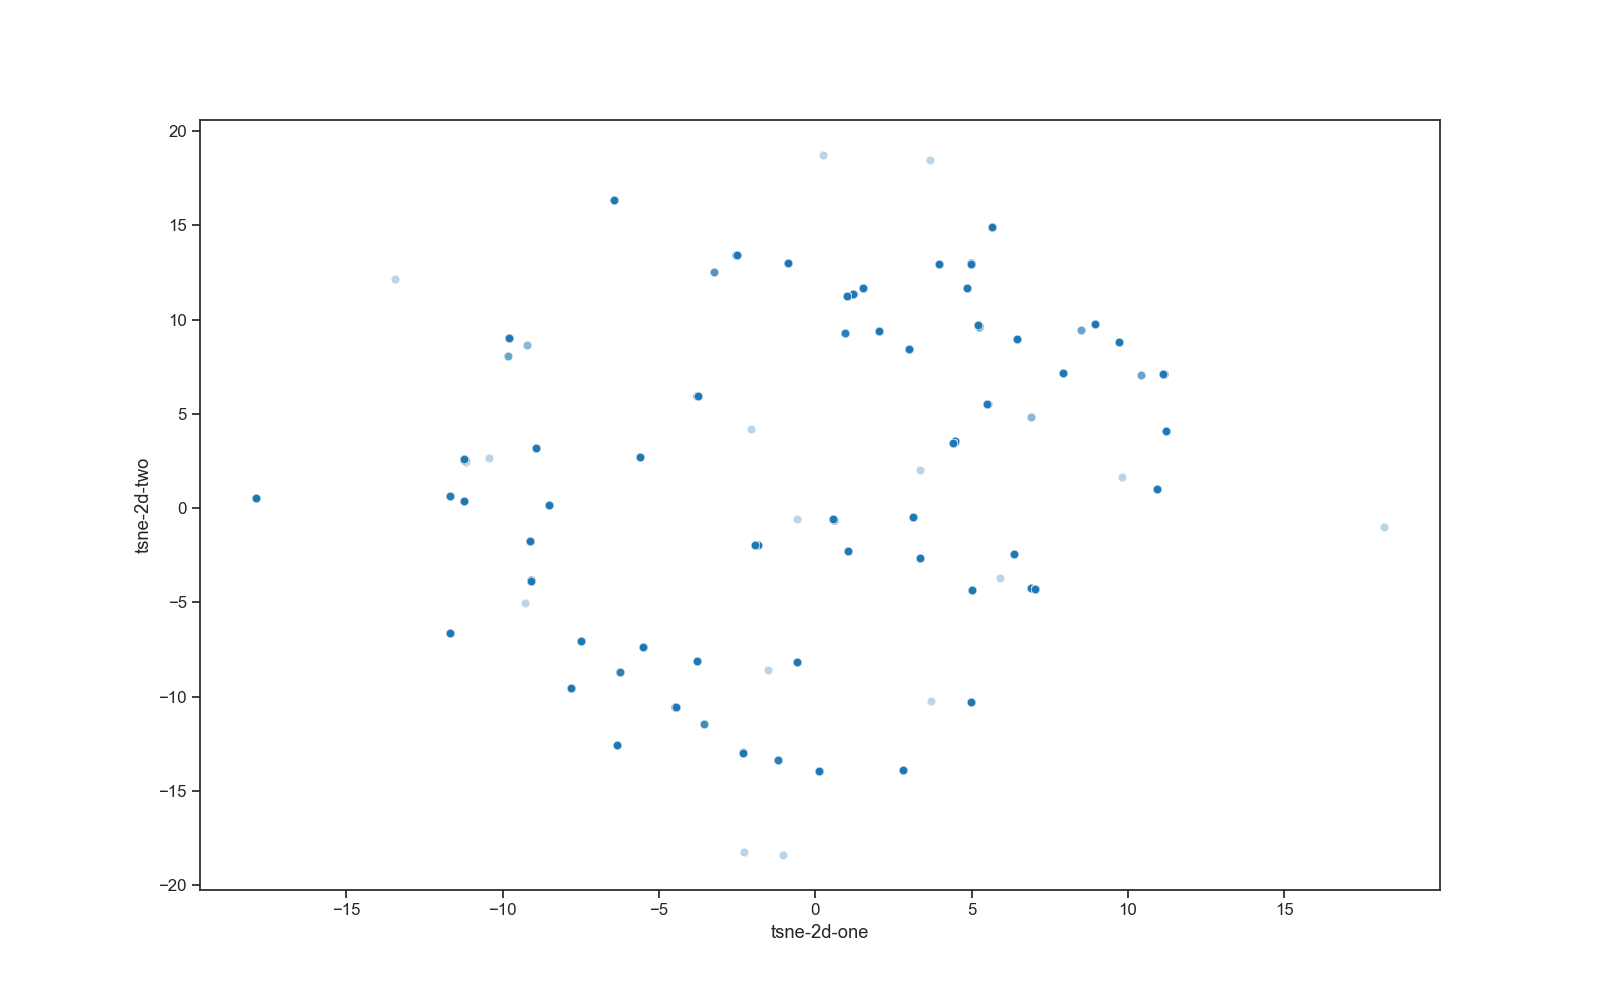
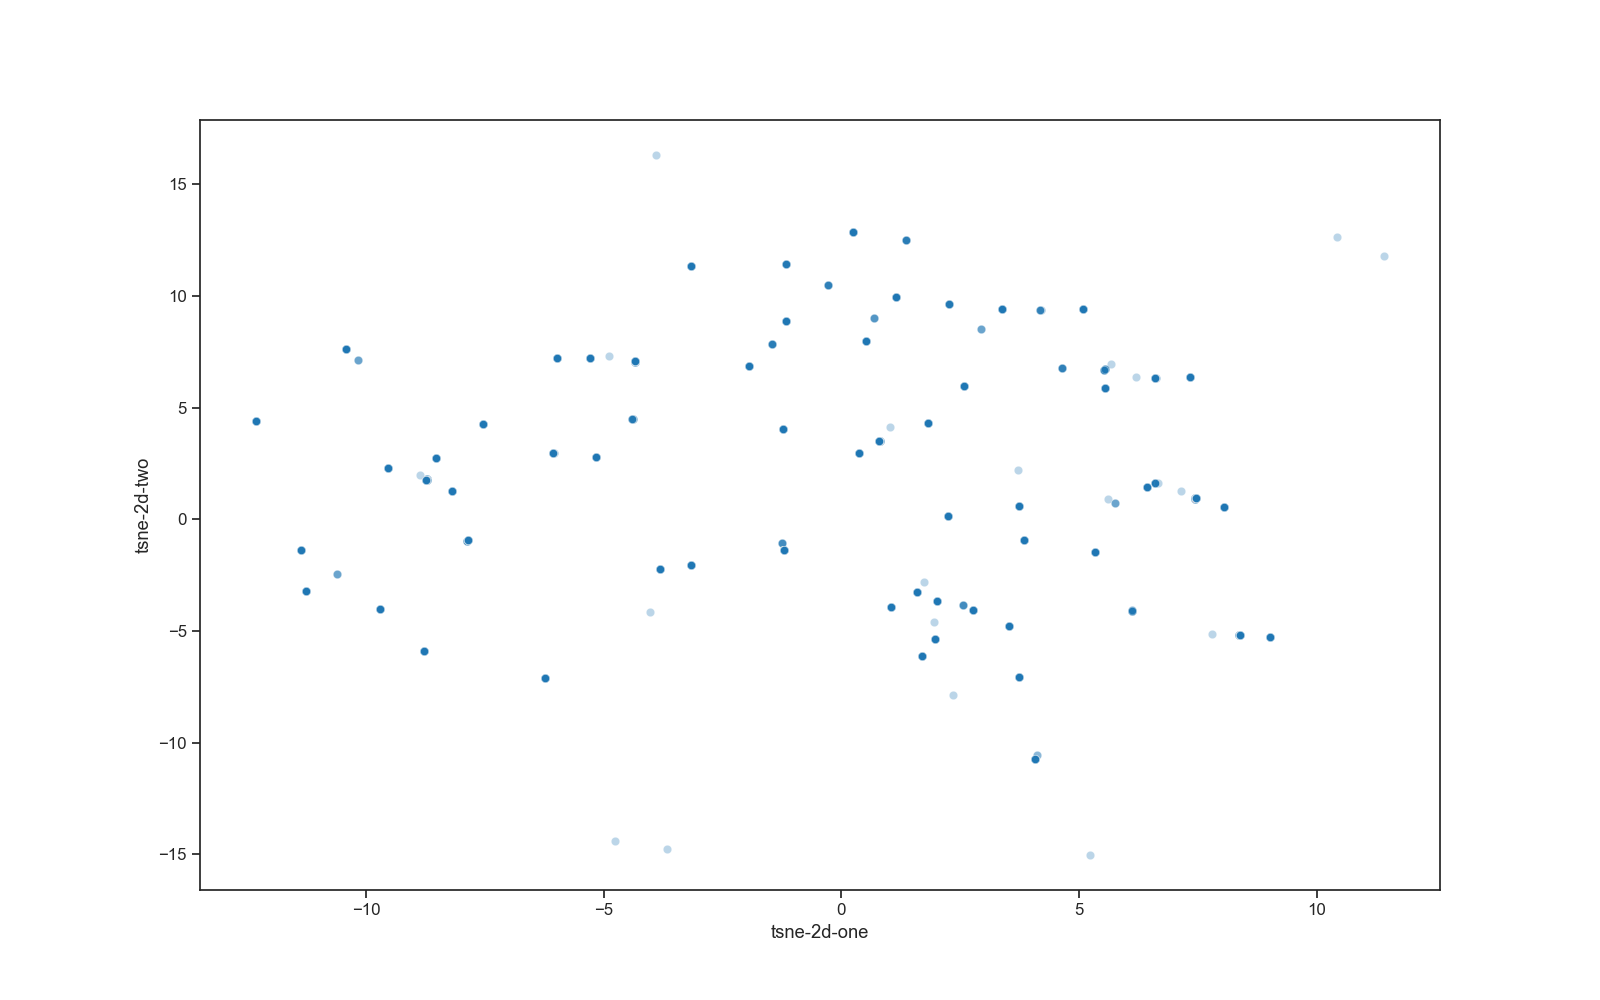
find correct parameters to get clusters

diff --git a/README.md b/README.md
@@ -9,6 +9,9 @@ MNIST Data: https://www.kaggle.com/datasets/oddrationale/mnist-in-csv
 
 Second project will be for mental health data, attempting to cluster and identify named mental health disorders such as schizophrenia, schizoaffective, bipolar, etc. given symptom data. Perhaps will add in life factors such as income, housing, health insurance which we hypothesize will positively correlate with good mental health.
 
+HOW TO USE t-SNE:
+https://distill.pub/2016/misread-tsne/
+
 PAPERS:
 *https://www.ncbi.nlm.nih.gov/pmc/articles/PMC6783390/
 
